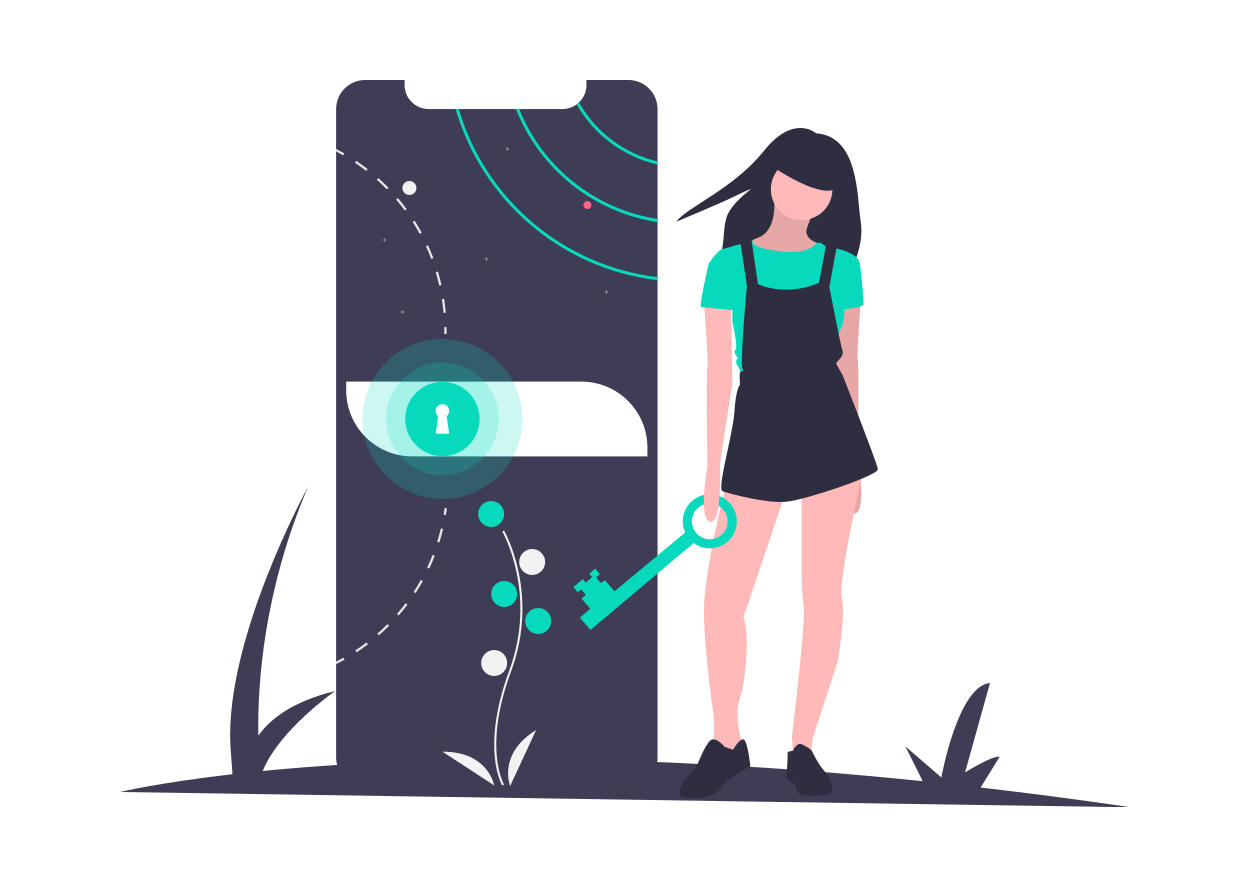
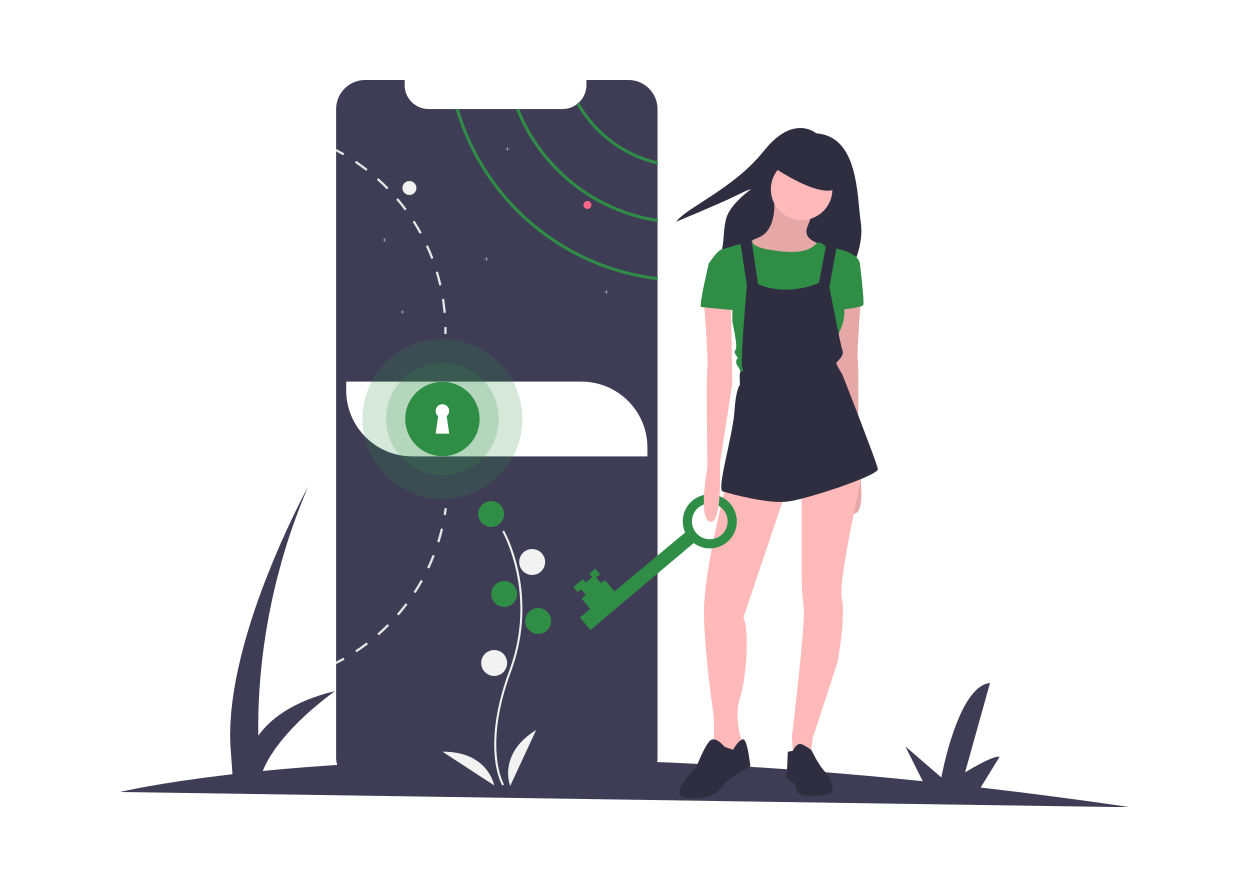
Set basic theming for the app as primaryColor: Colors.white and accentColor: Color(0xFF2F8D46) and change theming of all widgets/screens accordingly and also remove font styles/family.

diff --git a/lib/screens/LoginScreen.dart b/lib/screens/LoginScreen.dart
@@ -71,20 +71,19 @@ class _LoginScreenState extends State<LoginScreen> {
                 },
                 decoration: InputDecoration(
                     filled: true,
-                    fillColor: Colors.teal.withOpacity(0.2),
+                    fillColor: Color(0xFF2F8D46).withOpacity(0.2),
                     hintText: 'Email',
                     hintStyle: TextStyle(
-                        fontFamily: 'Montserrat',
                         color: Colors.black.withOpacity(0.6)),
-                    prefixIcon: Icon(Icons.person, color: Colors.teal),
+                    prefixIcon: Icon(Icons.person, color: Color(0xFF2F8D46)),
                     enabledBorder: OutlineInputBorder(
                       borderSide:
-                          BorderSide(color: Colors.teal.withOpacity(0.2)),
+                          BorderSide(color: Color(0xFF2F8D46).withOpacity(0.2)),
                       borderRadius: BorderRadius.circular(20.0),
                     ),
                     focusedBorder: OutlineInputBorder(
                       borderSide:
-                          BorderSide(color: Colors.teal.withOpacity(0.2)),
+                          BorderSide(color: Color(0xFF2F8D46).withOpacity(0.2)),
                       borderRadius: BorderRadius.circular(20.0),
                     ),
                     errorText: validityEmail ? null : emailIdErrorMessage,
@@ -112,11 +111,10 @@ class _LoginScreenState extends State<LoginScreen> {
                 textInputAction: TextInputAction.done,
                 decoration: InputDecoration(
                     filled: true,
-                    fillColor: Colors.teal.withOpacity(0.2),
+                    fillColor: Color(0xFF2F8D46).withOpacity(0.2),
                     hintText: 'Password',
                     hintStyle: TextStyle(
-                        fontFamily: 'Montserrat',
-                        color: Colors.black.withOpacity(0.6)),
+                      color: Colors.black.withOpacity(0.6)),
                     errorText: validityPassword ? null : passwordErrorMessage,
                     //here string stored in emailIdErrorMessage is displayed if boolean variable validityEmail is false
 
@@ -131,15 +129,15 @@ class _LoginScreenState extends State<LoginScreen> {
                       ),
                       borderRadius: BorderRadius.circular(20.0),
                     ),
-                    prefixIcon: Icon(Icons.lock, color: Colors.teal),
+                    prefixIcon: Icon(Icons.lock, color: Color(0xFF2F8D46)),
                     enabledBorder: OutlineInputBorder(
                       borderSide:
-                          BorderSide(color: Colors.teal.withOpacity(0.2)),
+                          BorderSide(color: Color(0xFF2F8D46).withOpacity(0.2)),
                       borderRadius: BorderRadius.circular(20.0),
                     ),
                     focusedBorder: OutlineInputBorder(
                       borderSide:
-                          BorderSide(color: Colors.teal.withOpacity(0.2)),
+                          BorderSide(color: Color(0xFF2F8D46).withOpacity(0.2)),
                       borderRadius: BorderRadius.circular(20.0),
                     )),
                 obscureText: true,
@@ -175,10 +173,10 @@ class _LoginScreenState extends State<LoginScreen> {
                     "LOGIN",
                     style: TextStyle(
                         fontSize: 17.0,
-                        fontFamily: 'Montserrat',
                         color: Colors.white),
                   ),
-                  color: new Color(0xFF0DD6BB)),
+                //Color(0xFF0DD6BB)
+                color: new Color(0xFF2F8D46))
             ),
             SizedBox(height: 10.0),
             Row(
@@ -187,7 +185,7 @@ class _LoginScreenState extends State<LoginScreen> {
               children: <Widget>[
                 Text(
                   "Don't have a account yet?",
-                  style: TextStyle(fontFamily: 'Montserrat'),
+                  style: TextStyle(),
                 ),
                 SizedBox(width: 5.0),
                 InkWell(
@@ -197,14 +195,14 @@ class _LoginScreenState extends State<LoginScreen> {
                   child: Text(
                     'Register Now',
                     style: TextStyle(
-                        color: Colors.teal,
-                        fontFamily: 'Montserrat',
+                        color: Color(0xFF2F8D46),
                         fontWeight: FontWeight.bold,
                         decoration: TextDecoration.underline),
                   ),
                 )
               ],
-            )
+            ),
+
           ],
         ),
       ),
@@ -252,3 +250,4 @@ bool isValidPassword(String password) {
   } else
     return true;
 }
+

diff --git a/lib/screens/mission.dart b/lib/screens/mission.dart
@@ -1,7 +1,5 @@
 import 'package:flutter/material.dart';
 import 'package:animated_text_kit/animated_text_kit.dart';
-import 'package:google_fonts/google_fonts.dart';
-
 class MissionAndVision extends StatefulWidget {
   @override
   _MissionAndVisionState createState() => _MissionAndVisionState();
@@ -14,18 +12,12 @@ class _MissionAndVisionState extends State<MissionAndVision> {
       appBar: AppBar(
         title: Text(
           "Mission & Vision",
-          style: GoogleFonts.blackOpsOne(),
         ),
         centerTitle: true,
-        backgroundColor: Colors.green[800],
       ),
       body: SingleChildScrollView(
         child: Container(
-          decoration: BoxDecoration(
-              gradient: LinearGradient(
-                  begin: Alignment.topCenter,
-                  end: Alignment.bottomCenter,
-                  colors: <Color>[Colors.green, Colors.white])),
+
           child: Column(
             children: <Widget>[
               SizedBox(
@@ -49,8 +41,8 @@ class _MissionAndVisionState extends State<MissionAndVision> {
                 child: Padding(
                   padding: EdgeInsets.all(20.0),
                   child: Text(
-                    "With the idea of imparting programming knowledge, Mr. Sandeep Jain, an IIT Roorkee alumnus started a dream, GeeksforGeeks. Whether programming excites you or you feel stifled, wondering how to prepare for interview questions or how to ace data structures and algorithms, GeeksforGeeks is a one-stop solution. With every tick of time, we are adding arrows in our quiver. From articles on various computer science subjects to programming problems for practice, from basic to premium courses, from technologies to entrance examinations, we have been building ample content with superior quality.",
-                    style: GoogleFonts.oswald(
+                    "With the idea ofg imparting programming knowledge, Mr. Sandeep Jain, an IIT Roorkee alumnus started a dream, GeeksforGeeks. Whether programming excites you or you feel stifled, wondering how to prepare for interview questions or how to ace data structures and algorithms, GeeksforGeeks is a one-stop solution. With every tick of time, we are adding arrows in our quiver. From articles on various computer science subjects to programming problems for practice, from basic to premium courses, from technologies to entrance examinations, we have been building ample content with superior quality.",
+                    style: TextStyle(
                       fontSize: 22.0,
                       color: Colors.black,
                     ),
@@ -79,7 +71,7 @@ class _MissionAndVisionState extends State<MissionAndVision> {
                   padding: EdgeInsets.all(20.0),
                   child: Text(
                     "Lorem ipsum is a pseudo-Latin text used in web design, typography, layout, and printing in place of English to emphasise design elements over content. It's also called placeholder (or filler) text. It's a convenient tool for mock-ups. It helps to outline the visual elements of a document or presentation, eg typography, font, or layout. Lorem ipsum is mostly a part of a Latin text by the classical author and philosopher Cicero. Its words and letters have been changed by addition or removal, so to deliberately render its content nonsensical; it's not genuine, correct, or comprehensible Latin anymore.",
-                    style: GoogleFonts.oswald(
+                    style: TextStyle(
                       fontSize: 22.0,
                       color: Colors.black,
                     ),

diff --git a/lib/screens/members.dart b/lib/screens/members.dart
@@ -157,14 +157,19 @@ class _MembersState extends State<Members> {
               child: Row(
                 mainAxisSize: MainAxisSize.min,
                 children: <Widget>[
-                  ConstrainedBox(
-                    constraints: BoxConstraints.expand(
-                      height: MediaQuery.of(context).size.height * 0.2,
-                      width: MediaQuery.of(context).size.width * 0.3,
+                  Container(
+                    decoration:BoxDecoration(
+                        border: Border.all(color:Color(0xFF2F8D46),width:2)
                     ),
-                    child: CachedNetworkImage(
-                        fit: BoxFit.cover,
-                        imageUrl: developers[i].speakerImage),
+                    child: ConstrainedBox(
+                      constraints: BoxConstraints.expand(
+                        height: MediaQuery.of(context).size.height * 0.2,
+                        width: MediaQuery.of(context).size.width * 0.3,
+                      ),
+                      child: CachedNetworkImage(
+                          fit: BoxFit.cover,
+                          imageUrl: developers[i].speakerImage),
+                    ),
                   ),
                   SizedBox(
                     width: 20,
@@ -181,7 +186,7 @@ class _MembersState extends State<Members> {
                           children: <Widget>[
                             Text(
                               developers[i].speakerName,
-                              style: Theme.of(context).textTheme.headline1,
+                                style: Theme.of(context).textTheme.headline5,
                             ),
                             SizedBox(
                               height: 5,

diff --git a/lib/components/upcoming_event_card.dart b/lib/components/upcoming_event_card.dart
@@ -4,7 +4,7 @@ import 'package:our_gfg/models/event.dart';
 
 class UpcomingEventCard extends StatelessWidget {
   final Event event;
-  final Color _textColor = Color(0xFFfcdab7);
+  final Color _textColor = Colors.black;
 
   UpcomingEventCard({@required this.event});
 
@@ -17,15 +17,7 @@ class UpcomingEventCard extends StatelessWidget {
         color: Colors.white,
         borderRadius: BorderRadius.circular(5),
         boxShadow: [BoxShadow(color: Colors.grey, blurRadius: 5)],
-        gradient: LinearGradient(
-          begin: Alignment.bottomLeft,
-          end: Alignment.topRight,
-          colors: [
-            Color(0xFF1d2d50),
-            Color(0xFF133b5c),
-            Color(0xFF1e5f74),
-          ],
-        ),
+
       ),
       child: Column(
         crossAxisAlignment: CrossAxisAlignment.start,
@@ -68,7 +60,7 @@ class UpcomingEventCard extends StatelessWidget {
               children: [
                 TextSpan(
                   text: "Date : ",
-                  style: TextStyle(fontWeight: FontWeight.bold),
+                  style: TextStyle(fontWeight: FontWeight.bold,color:Color(0xFF2F8D46)),
                 ),
                 TextSpan(text: event.date),
               ],
@@ -84,7 +76,7 @@ class UpcomingEventCard extends StatelessWidget {
               children: [
                 TextSpan(
                   text: "Time : ",
-                  style: TextStyle(fontWeight: FontWeight.bold),
+                  style: TextStyle(fontWeight: FontWeight.bold,color:Color(0xFF2F8D46)),
                 ),
                 TextSpan(text: event.time),
               ],

diff --git a/lib/screens/about_screen.dart b/lib/screens/about_screen.dart
@@ -26,7 +26,7 @@ class About extends StatelessWidget {
                   'GeeksForGeeks Student Chapter',
                   textAlign: TextAlign.center,
                   style: TextStyle(
-                      color: Colors.green,
+                      color: Color(0xFF2F8D46),
                       fontSize: 30,
                       fontWeight: FontWeight.bold),
                 ),
@@ -39,12 +39,12 @@ class About extends StatelessWidget {
               margin: EdgeInsets.only(top: 20),
               child: Center(
                   child: CircleAvatar(
-                backgroundColor: Colors.green,
+                backgroundColor: Color(0xFF2F8D46),
                 radius: 70,
                 child: CircleAvatar(
                   backgroundImage: AssetImage('assets/images/logo.jpeg'),
                   radius: 67,
-                  foregroundColor: Colors.green,
+                  foregroundColor: Color(0xFF2F8D46),
                 ),
               )),
             ),
@@ -59,12 +59,12 @@ class About extends StatelessWidget {
                     speed: Duration(milliseconds: 100),
                     repeatForever: true,
                     textStyle: TextStyle(
-                        color: Colors.green,
+                        color: Color(0xFF2F8D46),
                         fontSize: 30,
-                        fontFamily: 'Exo_2')),
+                        )),
                 Icon(
                   Icons.info,
-                  color: Colors.green,
+                  color: Color(0xFF2F8D46),
                   size: 30,
                 ),
               ],

diff --git a/lib/screens/sign_up.dart b/lib/screens/sign_up.dart
@@ -127,7 +127,7 @@ class _SignUpState extends State<SignUp> {
                     RaisedButton(
                       padding: EdgeInsets.only(left: 40, right: 40),
                       shape: StadiumBorder(),
-                      color: Colors.green,
+                      color: Color(0xFF2F8D46),
                       onPressed: () {
                         setState(() {
                           validityEmail = isValidEmail(email.text);
@@ -142,7 +142,7 @@ class _SignUpState extends State<SignUp> {
                     RaisedButton(
                       padding: EdgeInsets.only(left: 40, right: 40),
                       shape: StadiumBorder(),
-                      color: Colors.green,
+                      color: Color(0xFF2F8D46),
                       onPressed: () {},
                       child: Text('Sign In With Google'),
                     ),

diff --git a/lib/main.dart b/lib/main.dart
@@ -1,7 +1,6 @@
 import 'package:firebase_core/firebase_core.dart';
 import 'package:flutter/material.dart';
 import 'package:our_gfg/screens/LoginScreen.dart';
-
 void main() async {
   WidgetsFlutterBinding.ensureInitialized();
   await Firebase.initializeApp();
@@ -9,7 +8,7 @@ void main() async {
 }
 
 class MyApp extends StatelessWidget {
-  final kMainColor = Color(0xFF1d2d50);
+  final kMainColor = Color(0xFF2F8D46);
   @override
   Widget build(BuildContext context) {
     return MaterialApp(
@@ -17,6 +16,7 @@ class MyApp extends StatelessWidget {
       theme: ThemeData(
         appBarTheme: AppBarTheme(color: kMainColor),
         accentColor: kMainColor,
+        primaryColor: Colors.white,
         visualDensity: VisualDensity.adaptivePlatformDensity,
       ),
       home: LoginScreen(),

diff --git a/lib/components/my_cached_network_image.dart b/lib/components/my_cached_network_image.dart
@@ -18,7 +18,10 @@ class MyCachedNetworkImage extends StatelessWidget {
   @override
   Widget build(BuildContext context) {
     return ClipRRect(
-      borderRadius: BorderRadius.circular(this.borderRadius),
+      borderRadius: BorderRadius.only(
+        topLeft: Radius.circular(this.borderRadius),
+          topRight: Radius.circular(this.borderRadius)
+      ),
       child: CachedNetworkImage(
         height: this.imageHeight,
         width: this.imageWidth,
@@ -31,7 +34,7 @@ class MyCachedNetworkImage extends StatelessWidget {
         ),
         errorWidget: (context, _, __) => Icon(
           Icons.error,
-          color: Colors.black,
+          color: Color(0xFF2F8D46),
           size: 50,
         ),
       ),

diff --git a/lib/screens/upcoming_events_screen.dart b/lib/screens/upcoming_events_screen.dart
@@ -28,7 +28,7 @@ class _UpcomingEventsScreenState extends State<UpcomingEventsScreen> {
           future: this._upcomingEvents,
           builder: (context, snapshot) {
             if (snapshot.hasError) {
-              return Center(child: Icon(Icons.error));
+              return Center(child: Icon(Icons.error,color: Color(0xFF2F8D46),));
             } else if (snapshot.hasData) {
               return ListView.builder(
                 physics: BouncingScrollPhysics(),
